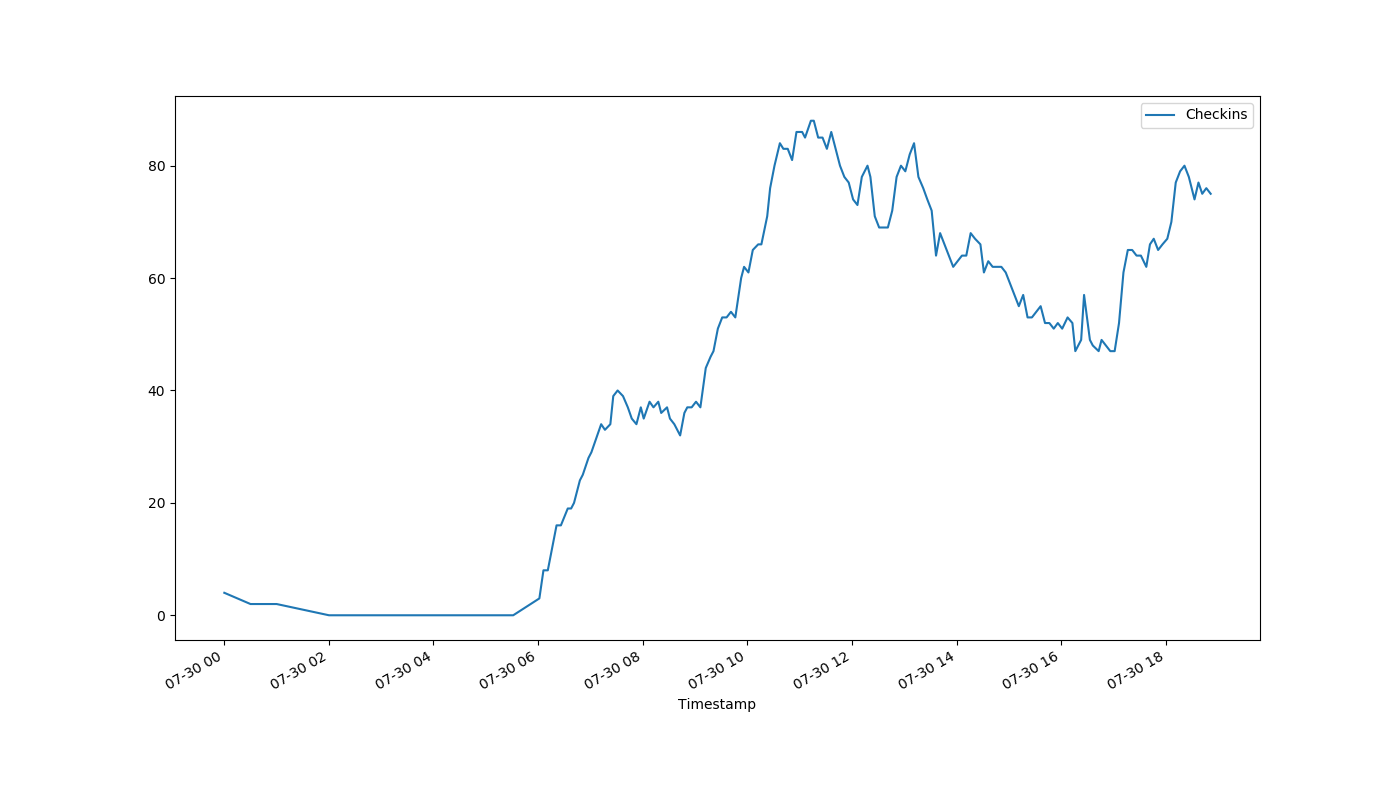
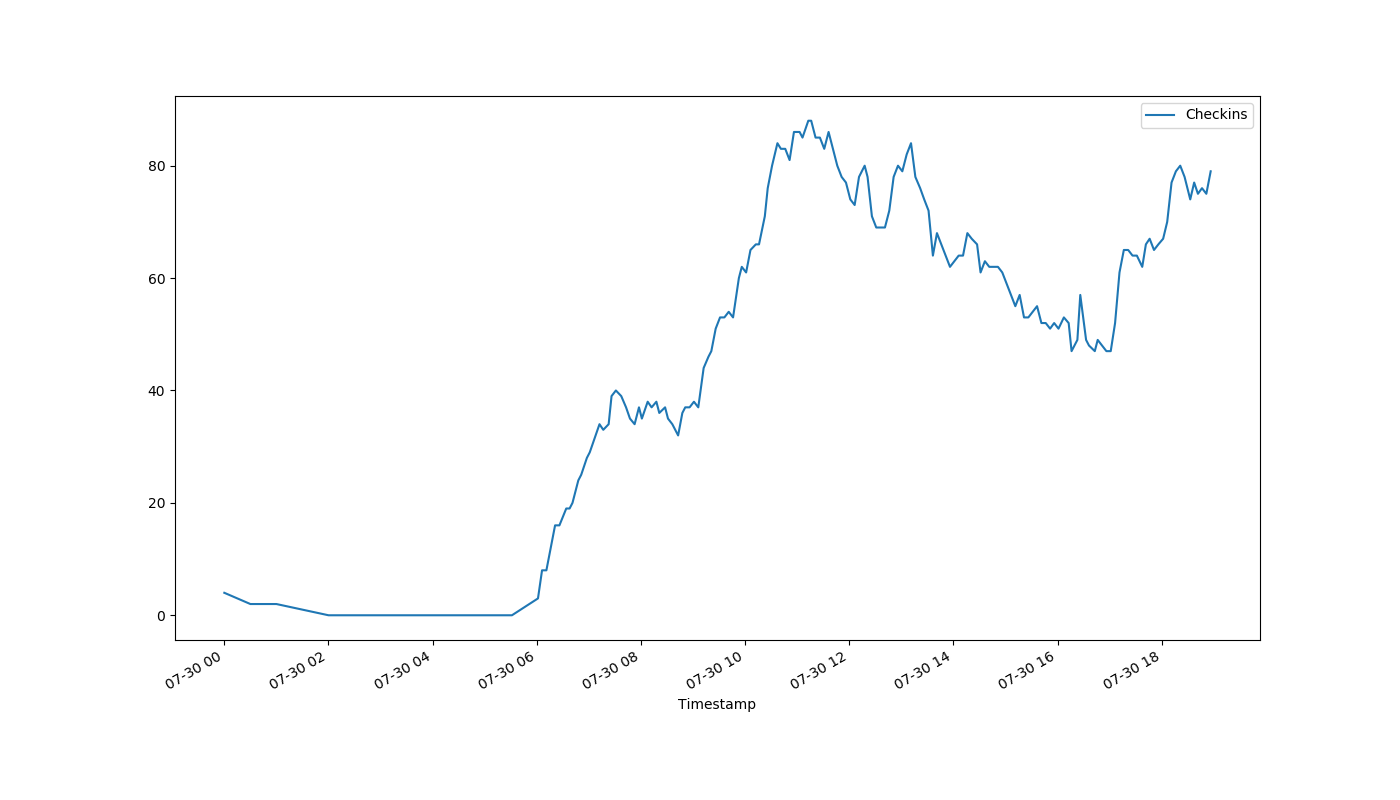
auto-Jul-30-18:58:16

diff --git a/index.html b/index.html
@@ -1,1 +1,1 @@
-<!DOCTYPE html><html><head><meta http-equiv="refresh" content="30"><link rel='stylesheet' href='holmcurrent.css'></head><body><p id='count'>75</p><div id='graph-wrap'><img id='graph' src='holmgraph-Jul-30.png'></div><p id='updated'>Last updated 18:52:08 / 18:51:18</p></body></html>
+<!DOCTYPE html><html><head><meta http-equiv="refresh" content="30"><link rel='stylesheet' href='holmcurrent.css'></head><body><p id='count'>79</p><div id='graph-wrap'><img id='graph' src='holmgraph-Jul-30.png'></div><p id='updated'>Last updated 18:57:09 / 18:56:18</p></body></html>
